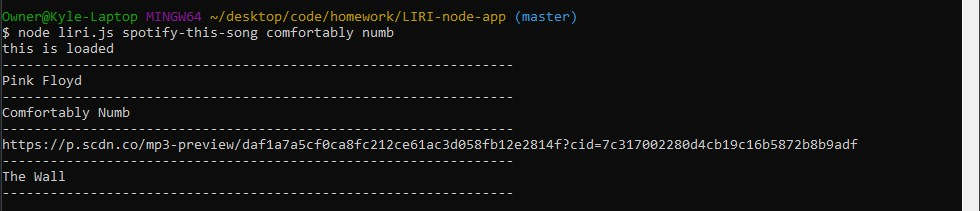
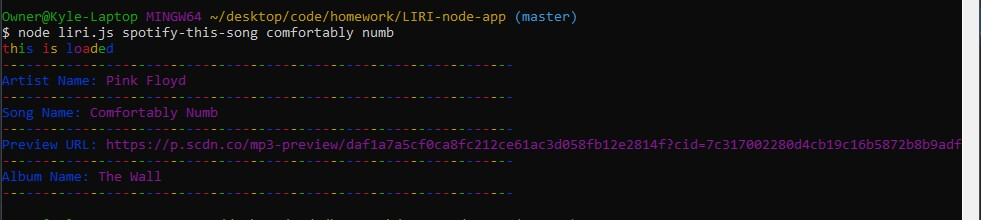
colors add

diff --git a/liri.js b/liri.js
@@ -1,10 +1,10 @@
 // Read and set environment variables
 require("dotenv").config();
+var colors = require('colors');
 
 //CODE TO IMPORT KEYS.JS
 var keys = require("./key.js");
 var axios = require("axios");
-
 
 
 //SWITCH STATEMENT TO DEFINE ARGUMENTS
@@ -29,7 +29,7 @@ function userCommand() {
             doWhatItSays();
             break;
         default:
-            console.log("ABOUT THE APP. LIRI is a Language Interpretation and Recognition Interface. LIRI is a command line node app that takes in parameters and gives back data. The user has the option of using four commands (listed below) in conjuntion with specific parameters associated with the commands. The Commands are: concert-this, spotify-this-song, movie-this, do-what-it-says");
+            console.log(colors.verbose("ABOUT THE APP. LIRI is a Language Interpretation and Recognition Interface. LIRI is a command line node app that takes in parameters and gives back data. The user has the option of using four commands (listed below) in conjuntion with specific parameters associated with the commands. The Commands are: concert-this, spotify-this-song, movie-this, do-what-it-says"));
 
     }
 }
@@ -44,13 +44,13 @@ function concertThis() {
 
         .then(function (response) {
             var booty = response.data[0];
-            console.log("----------------------------------------------------------------");
-            console.log("Venue Name: " + booty.venue.name);
-            console.log("----------------------------------------------------------------");
-            console.log("Country: " + booty.venue.country);
-            console.log("----------------------------------------------------------------");
-            console.log("Event Time: " + moment(booty.datetime).format("MM/DD/YYYY"));
-            console.log("----------------------------------------------------------------");
+            console.log(colors.silly("----------------------------------------------------------------"));
+            console.log(colors.verbose("Venue Name: ") + colors.info(booty.venue.name));
+            console.log(colors.silly("----------------------------------------------------------------"));
+            console.log(colors.verbose("Country: ") + colors.info(booty.venue.country));
+            console.log(colors.silly("----------------------------------------------------------------"));
+            console.log(colors.verbose("Event Time: ") + colors.info(moment(booty.datetime).format("MM/DD/YYYY")));
+            console.log(colors.silly("----------------------------------------------------------------"));
 
         })
         .catch(function (error) {
@@ -74,15 +74,15 @@ function spotify(input) {
         })
         .then(function (response) {
             var spoils = response.tracks.items[0];
-            console.log("----------------------------------------------------------------");
-            console.log(spoils.album.artists[0].name);
-            console.log("----------------------------------------------------------------");
-            console.log(spoils.name);
-            console.log("----------------------------------------------------------------");
-            console.log(spoils.preview_url);
-            console.log("----------------------------------------------------------------");
-            console.log(spoils.album.name);
-            console.log("----------------------------------------------------------------");
+            console.log(colors.silly("----------------------------------------------------------------"));
+            console.log(colors.debug("Artist Name: ") + colors.magenta(spoils.album.artists[0].name));
+            console.log(colors.silly("----------------------------------------------------------------"));
+            console.log(colors.debug("Song Name: ") + colors.magenta(spoils.name));
+            console.log(colors.silly("----------------------------------------------------------------"));
+            console.log(colors.debug("Preview URL: ") + colors.magenta(spoils.preview_url));
+            console.log(colors.silly("----------------------------------------------------------------"));
+            console.log(colors.debug("Album Name: ") + colors.magenta(spoils.album.name));
+            console.log(colors.silly("----------------------------------------------------------------"));
 
 
 
@@ -99,29 +99,28 @@ function movie() {
     axios.get(queryURL)
         .then(function (response) {
             var movieResponse = response.data;
-            console.log("----------------------------------------------------------------");
-            console.log(movieResponse.Title);
-            console.log("----------------------------------------------------------------");
-            console.log(movieResponse.Year);
-            console.log("----------------------------------------------------------------");
-            console.log(movieResponse.imdbRating);
-            console.log("----------------------------------------------------------------");
+            console.log(colors.silly("----------------------------------------------------------------"));
+            console.log(colors.magenta("Title: ") + colors.bgMagenta(movieResponse.Title));
+            console.log(colors.silly("----------------------------------------------------------------"));
+            console.log(colors.magenta("Year: ") + colors.bgMagenta(movieResponse.Year));
+            console.log(colors.silly("----------------------------------------------------------------"));
+            console.log(colors.magenta("IMDB Rating: ") + colors.bgMagenta(movieResponse.imdbRating));
+            console.log(colors.silly("----------------------------------------------------------------"));
             for (var i = 0; i < movieResponse.Ratings.length; i++) {
                 if (movieResponse.Ratings[i].Source === "Rotten Tomatoes") {
-                    console.log("Rotten Tomatoes: " + movieResponse.Ratings[i].Value);
+                    console.log(colors.magenta("Rotten Tomatoes: ") + colors.bgMagenta(movieResponse.Ratings[i].Value));
 
                 }
             }
-            console.log("----------------------------------------------------------------");
-            console.log(movieResponse.Country);
-            console.log("----------------------------------------------------------------");
-            console.log(movieResponse.Language);
-            console.log("----------------------------------------------------------------");
-            console.log(movieResponse.Plot);
-            console.log("----------------------------------------------------------------");
-            console.log(movieResponse.Actors);
-            console.log("----------------------------------------------------------------");
-
+            console.log(colors.silly("----------------------------------------------------------------"));
+            console.log(colors.magenta("Country: ") + colors.bgMagenta(movieResponse.Country));
+            console.log(colors.silly("----------------------------------------------------------------"));
+            console.log(colors.magenta("Language: ") + colors.bgMagenta(movieResponse.Language));
+            console.log(colors.silly("----------------------------------------------------------------"));
+            console.log(colors.magenta("Plot: ") + colors.bgMagenta(movieResponse.Plot));
+            console.log(colors.silly("----------------------------------------------------------------"));
+            console.log(colors.magenta("Actors: ") + colors.bgMagenta(movieResponse.Actors));
+            console.log(colors.silly("----------------------------------------------------------------"));
         })
         .catch(function (error) {
             console.log(error);

diff --git a/key.js b/key.js
@@ -1,4 +1,21 @@
-console.log('this is loaded');
+var colors = require('colors');
+colors.setTheme({
+    silly: 'rainbow',
+    input: 'grey',
+    verbose: 'cyan',
+    prompt: 'grey',
+    info: 'green',
+    data: 'gray',
+    help: 'cyan',
+    warn: 'yellow',
+    debug: 'blue',
+    error: 'red',
+    magenta: 'magenta',
+    america: 'america',
+    zebra: 'zebra'
+});
+
+console.log(colors.silly('this is loaded'));
 
 exports.spotify = {
     id: process.env.SPOTIFY_ID,

diff --git a/README.md b/README.md
@@ -74,6 +74,7 @@ Watch the video here: Place link to Google drive video here
     * Request
     * Moment
     * DotEnv
+    * Colors
 * APIs used:
     * Bands in Town
     * OMDB
